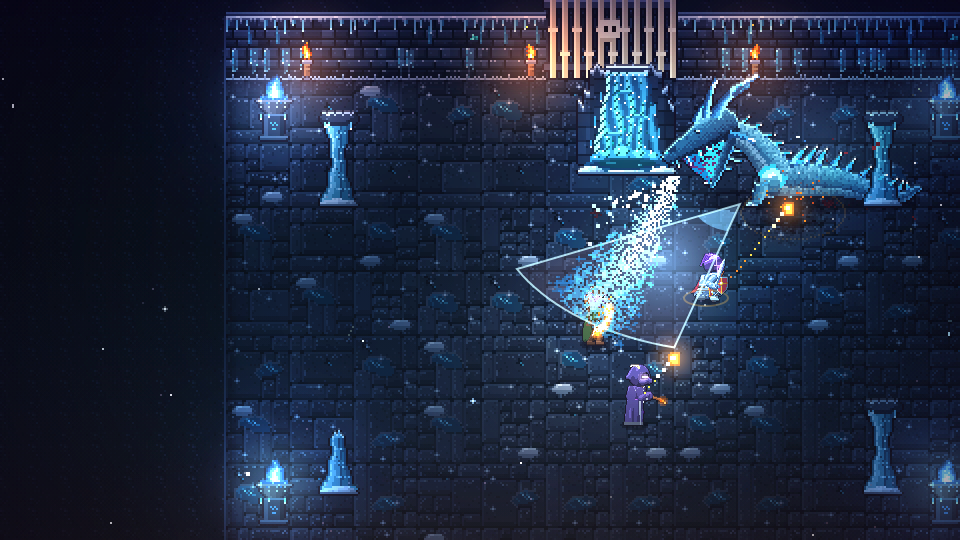
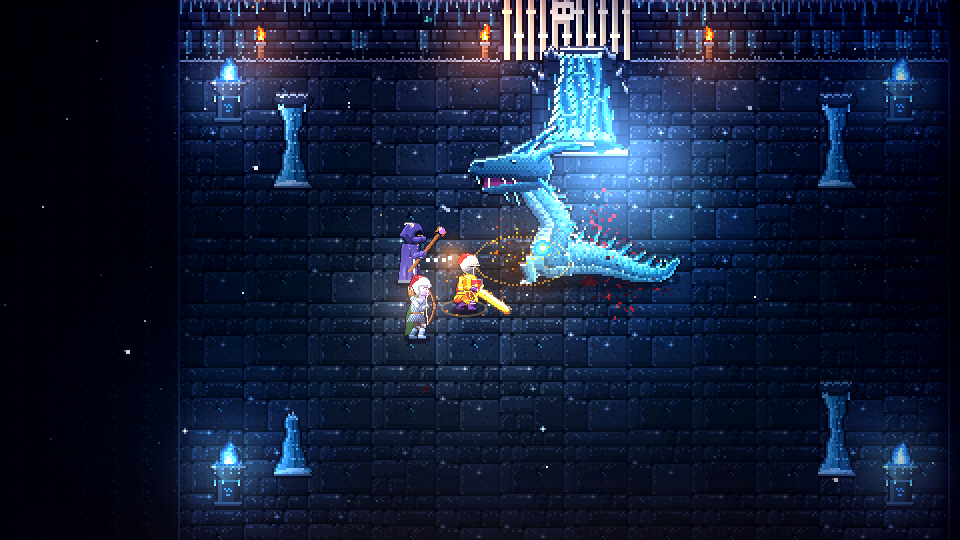
Startseite: neues Titelbild und Aschenfürst-Szene, Szenen-Kacheln entfernt
Claude-Session: https://claude.ai/code/session_014aqaTMnYkSHnqjxvGLxyGo

diff --git a/site/site.css b/site/site.css
@@ -95,6 +95,11 @@ section { position: relative; }
 .hero-bg { --ax: 0.73; }   /* Kampf rechts neben den Text */
 .pair figure { --ay: 0.42; }   /* Geschehen über der Bildunterschrift */
 @media (min-width: 1921px) { .hero-bg, .strip figure, .pair figure, .lore-bg { --f: 3; } }
+/* Titelbild und großer Streifen enger: Helden und Boss tragen das Bild */
+@media (min-width: 1200px) { .hero-bg { --f: 4; --ax: 0.77; } .strip .strip-a { --f: 3; } }
+@media (min-width: 1700px) { .hero-bg { --ax: 0.7; } }
+@media (min-width: 2000px) { .hero-bg { --f: 5; } }
+@media (min-width: 2400px) { .hero-bg { --f: 6; } .strip .strip-a { --f: 4; } }
 .hero::before { content: ""; position: absolute; inset: 0; z-index: -2;
   background: linear-gradient(90deg, rgba(5, 2, 10, 0.95) 0%, rgba(5, 2, 10, 0.86) 32%, rgba(5, 2, 10, 0.4) 50%, rgba(5, 2, 10, 0) 66%),
     linear-gradient(180deg, rgba(5, 2, 10, 0.55) 0%, rgba(5, 2, 10, 0) 18%, rgba(5, 2, 10, 0) 80%, var(--bg) 100%); }
@@ -106,9 +111,8 @@ section { position: relative; }
 .hero-cta { display: flex; flex-wrap: wrap; align-items: center; gap: 18px 28px; margin-top: 34px; }
 
 /* ---------- Action-Streifen: randlos, ein großes Bild und zwei kleine */
-.strip { display: grid; grid-template-columns: 1.7fr 1fr; grid-template-rows: 1fr 1fr; gap: 4px; height: clamp(420px, 44vw, 640px); background: #000; }
+.strip { display: grid; grid-template-columns: 1fr; height: clamp(420px, 40vw, 780px); background: #000; }
 .strip figure { position: relative; margin: 0; overflow: hidden; cursor: zoom-in; }
-.strip-a { grid-row: 1 / 3; }
 .strip figcaption { position: absolute; left: 0; bottom: 0; padding: 40px 22px 16px; width: 100%; font: 600 clamp(15px, 1.3vw, 19px)/1.2 var(--font-title); color: #fbe9c6; background: linear-gradient(180deg, transparent, rgba(5, 2, 10, 0.8)); letter-spacing: 0.04em; }
 .strip-a figcaption { font-size: clamp(18px, 1.8vw, 26px); padding: 60px 30px 24px; }
 
@@ -316,9 +320,7 @@ kbd { display: inline-block; min-width: 1.7em; padding: 1px 6px; font: 600 13px/
   .hero h1 { margin-top: 0; }
   /* Handy: zwei große Szenen untereinander */
   .strip { grid-template-columns: 1fr; grid-template-rows: auto; height: auto; }
-  .strip-a { grid-row: auto; }
-  .strip figure { aspect-ratio: 16 / 10; --f: 1; }
-  .strip-c { display: none; }
+  .strip figure { aspect-ratio: 4 / 5; --f: 1.67; }   /* hochkant, eigener Ausschnitt (--mx/--my) */
   .cls-layout { grid-template-columns: 1fr; grid-template-rows: auto; }
   .cls-side, .hero-fig, .cls-info { grid-column: 1; grid-row: auto; }
   .hero-fig { margin: 30px 0 0; }
@@ -344,8 +346,8 @@ kbd { display: inline-block; min-width: 1.7em; padding: 1px 6px; font: 600 13px/
 }
 @media (max-width: 600px) {
   .hero { display: block; min-height: 0; }
-  .hero-bg { position: relative; inset: auto; height: 58svh; min-height: 340px; max-height: 540px; z-index: -3; --f: 1; --ax: 0.5; }
-  .hero-bg::after { content: ""; position: absolute; inset: 0; background: linear-gradient(180deg, transparent 40%, rgba(5, 2, 10, 0.7) 72%, var(--bg) 100%); }
+  .hero-bg { position: relative; inset: auto; height: 66svh; min-height: 380px; max-height: 620px; z-index: -3; --f: 1.67; --ax: 0.5; }   /* 5 Gerätepixel bei 3×, 3 bei 2× */
+  .hero-bg::after { content: ""; position: absolute; inset: 0; background: linear-gradient(180deg, transparent 66%, rgba(5, 2, 10, 0.6) 86%, var(--bg) 100%); }
   .hero::before { background: linear-gradient(180deg, rgba(5, 2, 10, 0.55) 0%, rgba(5, 2, 10, 0) 14%); }
   .hero-content { padding-top: 0; margin-top: -60px; padding-bottom: 56px; }
   .hero-cta .btn { width: 100%; }

diff --git a/site/index.html b/site/index.html
@@ -22,7 +22,7 @@
 <main id="inhalt">
 
   <section class="hero" aria-labelledby="titel">
-    <div class="hero-bg"><img style="--fx:0.74;--fy:0.46" class="px shot" src="img/kampf-titel.webp" alt="Skalvyr, der Frostwurm, speit seinen Eisatem auf einen Krieger, eine Waldläuferin und einen Magier" width="960" height="540"></div>
+    <div class="hero-bg"><img style="--fx:0.495;--fy:0.45;--mx:0.5;--my:0.46" class="px shot" src="img/kampf-titel.webp" alt="Skalvyr, der Frostwurm, reißt das Maul auf. Vor ihm stehen ein Krieger mit flammender Klinge, ein Magier und eine Waldläuferin mit gespanntem Bogen." width="960" height="540"></div>
     <canvas class="embers" aria-hidden="true"></canvas>
     <div class="hero-content">
       <img class="hero-logo px" src="img/logo.png" alt="Emberwrath" width="438" height="90">
@@ -36,16 +36,8 @@
 
   <section class="strip" aria-label="Szenen aus dem Spiel">
     <figure class="strip-a" data-zoom="Malgareth, der Aschenfürst">
-      <img style="--fx:0.5;--fy:0.49" class="px shot" src="img/kampf-aschenfuerst.webp" alt="Malgareth, der Aschenfürst, holt mit seiner Flammenklinge aus. Die Warnlinie liegt unter Krieger, Magierin und Schurke." width="960" height="540" loading="lazy">
+      <img style="--fx:0.5;--fy:0.48;--mx:0.5;--my:0.5" class="px shot" src="img/kampf-aschenfuerst.webp" alt="Malgareth, der Aschenfürst, hebt seine Flammenklinge gegen Krieger, Magier und Waldläuferin." width="960" height="540" loading="lazy">
       <figcaption>Malgareth, der Aschenfürst</figcaption>
-    </figure>
-    <figure class="strip-b" data-zoom="Die Frostzinnen">
-      <img style="--fx:0.5;--fy:0.55" class="px shot" src="img/welt-frostzinnen.webp" alt="Krieger im Schnee zwischen Frostwölfen" width="960" height="540" loading="lazy">
-      <figcaption>Die Frostzinnen</figcaption>
-    </figure>
-    <figure class="strip-c" data-zoom="Mutter Fäulnis im Sporenschlund">
-      <img style="--fx:0.57;--fy:0.47" class="px shot" src="img/welt-sporenschlund.webp" alt="Magierin vor Mutter Fäulnis im Sporenschlund" width="960" height="540" loading="lazy">
-      <figcaption>Mutter Fäulnis</figcaption>
     </figure>
   </section>
 

diff --git a/site/site.js b/site/site.js
@@ -150,6 +150,7 @@
   // Faktor vor (--f); hier wird er auf ganze Bildschirmpunkte gerundet, so weit erhöht, dass das Bild seinen
   // Rahmen füllt, und der Ausschnitt (--fx/--fy = Bildpunkt, der an die Stelle --ax/--ay des Rahmens soll, sonst in die Mitte) auf ganze Punkte gesetzt.
   const shots = $$('img.shot');
+  const mobile = matchMedia('(max-width: 820px)');
   const fitShots = () => {
     const dpr = devicePixelRatio || 1;
     for (const img of shots) {
@@ -161,7 +162,9 @@
       let n = Math.max(1, Math.round(f * dpr));
       while ((w * n) / dpr < cw - 0.5 || (h * n) / dpr < ch - 0.5) n++;
       const k = n / dpr, iw = w * k, ih = h * k;
-      const fx = parseFloat(cs.getPropertyValue('--fx')) || 0.5, fy = parseFloat(cs.getPropertyValue('--fy')) || 0.5;
+      // Handy: eigener Bildausschnitt (--mx/--my), sonst --fx/--fy
+      const num = (k) => parseFloat(cs.getPropertyValue(k));
+      const fx = (mobile.matches && num('--mx')) || num('--fx') || 0.5, fy = (mobile.matches && num('--my')) || num('--fy') || 0.5;
       const snap = (v) => Math.round(v * dpr) / dpr;
       const ax = parseFloat(cs.getPropertyValue('--ax')) || 0.5, ay = parseFloat(cs.getPropertyValue('--ay')) || 0.5;
       const left = snap(Math.min(0, Math.max(cw - iw, cw * ax - fx * iw)));

diff --git a/site/README.md b/site/README.md
@@ -26,9 +26,9 @@ Anmeldestatus liest `site.js` aus `localStorage['emberwrath:online:session']` (F
 Alles in `img/` stammt aus dem Spiel, nichts ist nachgemalt:
 - `kampf-*.webp`, `welt-*.webp`: Spielszenen in nativer Auflösung des Spiels (960 × 540, spriteRes 2 wie live), verlustfrei
   (WebP lossless), Helligkeit beim Aufnehmen eingerechnet. Aufgenommen mit `tools/szenen.mjs`, ausgewählt mit
-  `tools/szenen-auswahl.py` (Pillow). Titelbild und Malgareth-Streifen zeigen eine Dreiergruppe.
-  Anzeige: `img.shot` mit `--fx/--fy` (Bildpunkt, der in die Mitte soll). CSS gibt je Breite einen Faktor `--f`
-  vor (×2, ab 1921 px ×3, Handy ×1); site.js rundet ihn auf ganze Bildschirmpunkte und füllt den Rahmen. Nie
+  `tools/szenen-auswahl.py` (Pillow). Titelbild (Skalvyr) und die Malgareth-Szene sind mit `tools/keyart.mjs` inszeniert.
+  Anzeige: `img.shot` mit `--fx/--fy` (Bildpunkt, der in die Mitte soll), auf dem Handy (≤ 820 px) `--mx/--my`, falls gesetzt. CSS gibt je Breite einen Faktor `--f`
+  vor (×2; Titelbild ab 1200 px ×4, ab 2000 px ×5, ab 2400 px ×6; großer Streifen ab 1200 px ×3; ab 1921 px sonst ×3; Handy Titel und Streifen ×1,67 (5 Gerätepixel bei 3×), sonst ×1); site.js rundet ihn auf ganze Bildschirmpunkte und füllt den Rahmen. Nie
   `object-fit: cover` oder CSS-Filter auf diese Bilder legen.
 - `held-*`, `volk-*`, `skill-*`, `npc-*`, `logo.png`: direkt aus dem Spielcode gerendert (`tools/render-assets.mjs`); `boss-*`, `ritt-*` (Reiter auf Reittieren) und `item-*` mit `tools/render40.mjs`.
   Die Seite vergrößert sie ganzzahlig und pixelgenau (Helden ×5, Bosse ×2 bzw. Ulgrim und Malgareth ×3, Reiter ×4, Völker ×3, Symbole ×2).
@@ -41,6 +41,8 @@ npx http-server dist -p 8101 -s &     # gebündeltes Spiel für szenen.mjs
 npx http-server .    -p 8102 -s &     # Module direkt für render-assets.mjs
 node site/tools/szenen.mjs cn [ids,kommagetrennt]   # je Szene eine Bildserie in cn/, Bosszustand im Dateinamen
 python3 site/tools/szenen-auswahl.py                # gewählte Bilder (oben im Skript) -> native/*.webp + focus.json
+node site/tools/keyart.mjs ka [ids]              # Titel und Streifen (kampf-*.webp): feste Aufstellung, Warnflächen
+                                                   # ausgeblendet, Gegenlicht, Farbgebung eingerechnet
 node site/tools/render-assets.mjs /tmp/assets       # Posen auswählen und nach site/img kopieren
 ```
 
